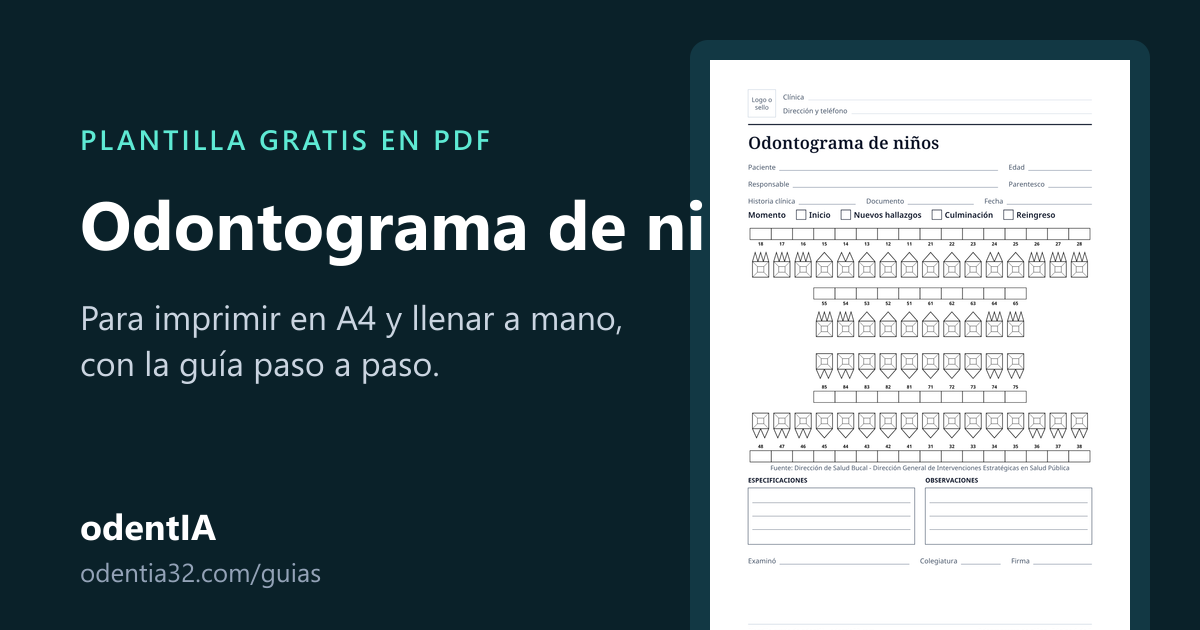
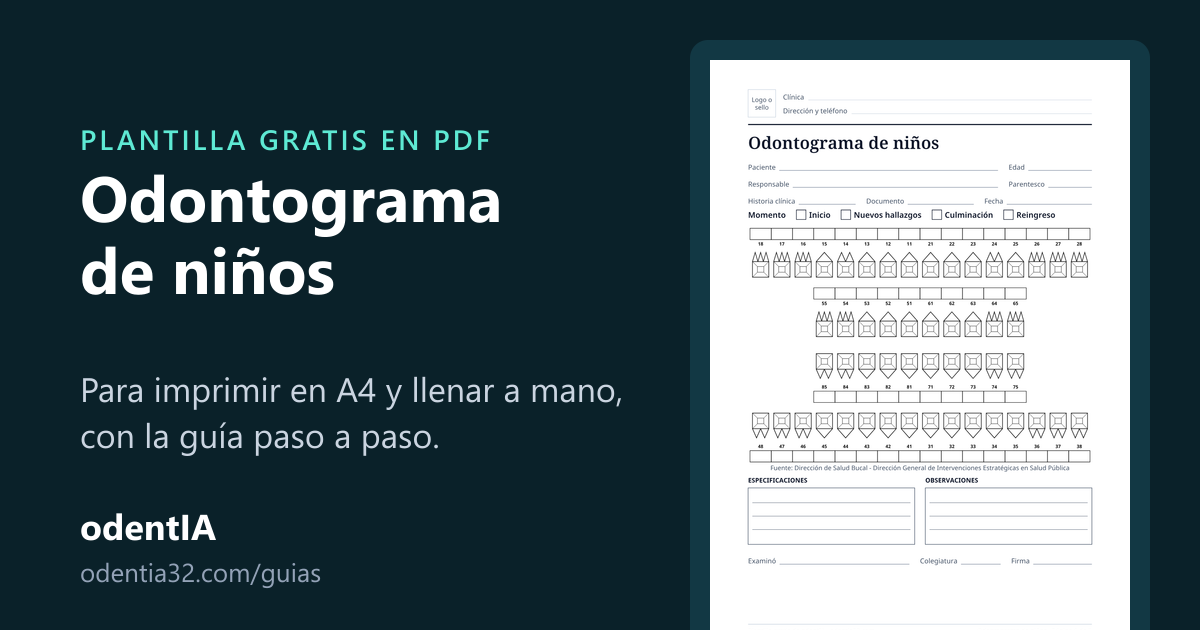
fix(guias): lo que encontró la revisión: ↑↓ y el teléfono en la vista de frente, la imagen de compartir y la fecha
- ↑ ↓ van a la pieza que está arriba o abajo en el dibujo (en la mixta, la 55 bajo la 15).
- En el teléfono, la arcada en dos filas de 8, como la app: ninguna pieza baja de 22 px.
- La imagen de compartir parte el nombre en dos renglones: «Odontograma de niños» se cortaba.
- La fecha de publicación ya no cambia al editar la guía; la miniatura no repite el nombre del enlace.
- Mateo: la 61 ya se cayó y no se marca, dicho junto a la 21.

Changed region(s): [[0.0617, 0.2714, 0.5858, 0.5429], [0.0617, 0.573, 0.5242, 0.7238]]

diff --git a/apps/web/src/components/odontogram/OdontogramFront.tsx b/apps/web/src/components/odontogram/OdontogramFront.tsx
@@ -8,6 +8,7 @@ import { archNeighbor } from "@odentia/dental/odontogram-arch"
 import {
   canalPaths,
   crownPath,
+  type FrontRow,
   type FrontTooth,
   frontRow,
   frontRowWidthMm,
@@ -16,7 +17,7 @@ import {
   rootPaths,
 } from "@odentia/dental/tooth-front"
 import { type FrontEntry, type FrontMarks, frontMarksOf, type Paint } from "@odentia/dental/tooth-front-marks"
-import { type KeyboardEvent, useId, useRef, useState } from "react"
+import { type KeyboardEvent, useId, useLayoutEffect, useRef, useState } from "react"
 import type { ExampleFinding } from "./OdontogramArch"
 
 /** Lo que es cada hallazgo de los ejemplos en la app: la condición, su cara y que está en buen estado. */
@@ -56,6 +57,9 @@ const INK: Record<Paint, string> = { red: "#dc2626", blue: "#2563eb" }
 /** Unidades del SVG por mm de dibujo, y px de pantalla por mm: el mismo tamaño que en la app. */
 const S = 5
 const PX_PER_MM = 3.5
+/** Solo con temporales va más grande, como en la app; en el teléfono, hasta 5,2. */
+const PRIMARY_PX_PER_MM = 4.4
+const PHONE_MAX_PX_PER_MM = 5.2
 /** Las de leche en su propia fila, junto a las permanentes: a este tanto de su tamaño. */
 const PRIMARY_OWN_ROW = 0.88
 const NUMBER_BAND = 24
@@ -75,17 +79,29 @@ function layoutRows(rows: readonly (readonly number[])[]) {
   const width = Math.max(...widths) + 2 * 2.6 * S + 8
   // En la mixta, cada pieza de leche va bajo la permanente que la reemplaza (la 55 bajo la 15).
   const slots = new Map<number, { x: number; w: number }>()
+  /** La fila de cada reemplazo: la de leche va bajo ella solo si todas caen en la misma. */
+  const rowOf = new Map<number, number>()
   rows.forEach((teeth, i) => {
     if (isPrimaryRow(teeth)) return
-    for (const t of frontRow(teeth, { scale: S, left: (width - widths[i]!) / 2, yOcc: 0 }).teeth)
+    for (const t of frontRow(teeth, { scale: S, left: (width - widths[i]!) / 2, yOcc: 0 }).teeth) {
       slots.set(t.tooth + 40, { x: t.x, w: t.w })
+      rowOf.set(t.tooth + 40, i)
+    }
   })
+  /** Dos filas van juntas si una es la de leche de la otra, con todas sus temporales bajo ella. */
+  const together = (a: readonly number[], b: readonly number[]) => {
+    if (isPrimaryRow(a) === isPrimaryRow(b)) return false
+    const primary = isPrimaryRow(a) ? a : b
+    const pair = rows.indexOf(isPrimaryRow(a) ? b : a)
+    return primary.every((tooth) => rowOf.get(tooth) === pair)
+  }
   let cursor = 4
-  const placed = rows.map((teeth, i) => {
+  const placed: Placed[] = rows.map((teeth, i) => {
+    // Entre una fila y la de leche que va con ella, poco; entre grupos, más (como la app).
     const prev = rows[i - 1]
-    // Entre una fila y la de leche que va con ella, poco; entre las dos de leche, más (como la app).
-    if (prev && isPrimaryRow(prev) && isPrimaryRow(teeth)) cursor += GROUP_GAP
-    const aligned = isPrimaryRow(teeth) && teeth.every((tooth) => slots.has(tooth))
+    if (prev && !together(prev, teeth) && (isPrimaryRow(prev) || isPrimaryRow(teeth))) cursor += GROUP_GAP
+    const aligned =
+      isPrimaryRow(teeth) && teeth.every((tooth) => slots.has(tooth) && rowOf.get(tooth) === rowOf.get(teeth[0]!))
     const left = (width - widths[i]!) / 2
     const opts = aligned ? { slots } : {}
     const scale = scaleOf(teeth, aligned)
@@ -103,6 +119,47 @@ function layoutRows(rows: readonly (readonly number[])[]) {
     return { row, numberY: top + NUMBER_BAND / 2 + 2, top, bottom: row.bottom }
   })
   return { width, height: cursor - ROW_GAP + 4, placed }
+}
+
+interface Placed {
+  row: FrontRow
+  /** Dónde van los números (centro de la franja). */
+  numberY: number
+  /** Lo que ocupa la fila con sus números: lo que se toca de cada pieza. */
+  top: number
+  bottom: number
+}
+
+/**
+ * ↑ ↓: la pieza de la fila de al lado que está justo arriba o abajo en el dibujo. Por posición en
+ * la fila no sirve en la mixta: la 55 va bajo la 15, no repartida a lo ancho (como la app).
+ */
+function aboveOrBelow(placed: readonly Placed[], tooth: number, step: -1 | 1): number | null {
+  const r = placed.findIndex((p) => p.row.teeth.some((t) => t.tooth === tooth))
+  const next = placed[r + step]?.row.teeth
+  if (r < 0 || !next || next.length === 0) return null
+  const from = placed[r]!.row.teeth.find((t) => t.tooth === tooth)!
+  const center = from.x + from.w / 2
+  let best = next[0]!
+  for (const t of next) if (Math.abs(t.x + t.w / 2 - center) < Math.abs(best.x + best.w / 2 - center)) best = t
+  return best.tooth
+}
+
+/**
+ * En el teléfono, como la app (`singleArchRows`): las permanentes en dos filas de 8 y las de leche
+ * enteras del lado de las coronas (solas, también en dos). Así, a 360 px, ninguna pieza baja de 24 px.
+ */
+function phoneRows(rows: readonly (readonly number[])[]): number[][] {
+  const halves = (row: readonly number[]) => [row.slice(0, row.length / 2), row.slice(row.length / 2)]
+  const upper = (row: readonly number[]) => [1, 2, 5, 6].includes(Math.trunc(row[0]! / 10))
+  const arch = (isUpper: boolean) => {
+    const permanent = rows.find((row) => row.length > 0 && upper(row) === isUpper && !isPrimaryRow(row))
+    const primary = rows.find((row) => row.length > 0 && upper(row) === isUpper && isPrimaryRow(row))
+    if (!permanent) return primary ? halves(primary) : []
+    if (!primary) return halves(permanent)
+    return isUpper ? [...halves(permanent), [...primary]] : [[...primary], ...halves(permanent)]
+  }
+  return [...arch(true), ...arch(false)]
 }
 
 /** Una cara vista de frente: el borde (oclusal o incisal), un lado o el centro. */
@@ -200,6 +257,23 @@ function ToothFront({ t, yOcc, reach, marks }: { t: FrontTooth; yOcc: number; re
   return <g transform={transform}>{body}</g>
 }
 
+/** El ancho donde va la vista: `null` hasta medirlo (en el servidor, a su tamaño). */
+function useAvailableWidth(ref: React.RefObject<HTMLDivElement | null>): number | null {
+  const [width, setWidth] = useState<number | null>(null)
+  useLayoutEffect(() => {
+    const el = ref.current
+    if (!el) return
+    const update = () => {
+      if (el.clientWidth > 100) setWidth(el.clientWidth)
+    }
+    update()
+    const observer = new ResizeObserver(update)
+    observer.observe(el)
+    return () => observer.disconnect()
+  }, [ref])
+  return width
+}
+
 /**
  * La boca de frente. Cada pieza es un botón (una sola parada de Tab y las flechas), con el mismo
  * elegido que el arco de al lado.
@@ -219,9 +293,17 @@ export default function OdontogramFront({
   labelOf: (tooth: number) => string
 }) {
   const ref = useRef<HTMLDivElement | null>(null)
+  const wrapRef = useRef<HTMLDivElement | null>(null)
   const hintId = useId()
-  const shown = rows.filter((row) => row.length > 0)
-  const { width: W, height: H, placed } = layoutRows(shown)
+  const available = useAvailableWidth(wrapRef)
+  const whole = rows.filter((row) => row.length > 0)
+  const wide = layoutRows(whole)
+  const base = whole.every(isPrimaryRow) ? PRIMARY_PX_PER_MM : PX_PER_MM
+  // Si no cabe a su tamaño, la arcada en dos filas, que llenan el ancho (como la app en el celular).
+  const phone = available !== null && (wide.width * base) / S > available
+  const shown = phone ? phoneRows(whole) : whole
+  const { width: W, height: H, placed } = phone ? layoutRows(shown) : wide
+  const px = phone ? Math.min(PHONE_MAX_PX_PER_MM, ((available ?? 0) * S) / W) : base
   const [visited, setVisited] = useState<number | null>(null)
   const visible = shown.flat()
   const tabStop =
@@ -232,7 +314,11 @@ export default function OdontogramFront({
   const onKeyDown = (event: KeyboardEvent<HTMLDivElement>) => {
     const el = (event.target as HTMLElement).closest<HTMLElement>("[data-front-tooth]")
     if (!el) return
-    const next = archNeighbor(shown, Number(el.dataset.frontTooth), event.key)
+    const tooth = Number(el.dataset.frontTooth)
+    const next =
+      event.key === "ArrowUp" || event.key === "ArrowDown"
+        ? aboveOrBelow(placed, tooth, event.key === "ArrowUp" ? -1 : 1)
+        : archNeighbor(shown, tooth, event.key)
     if (next === null) return
     event.preventDefault()
     setVisited(next)
@@ -240,10 +326,11 @@ export default function OdontogramFront({
   }
 
   return (
+    <div ref={wrapRef} className="of-wrap">
     <div
       ref={ref}
       className="of"
-      style={{ width: `${n((W * PX_PER_MM) / S)}px` }}
+      style={{ width: `${n((W * px) / S)}px` }}
       role="group"
       aria-label="De frente, cada pieza con su raíz"
       aria-describedby={hintId}
@@ -326,6 +413,7 @@ export default function OdontogramFront({
           />
         )),
       )}
+    </div>
     </div>
   )
 }

diff --git a/packages/services/src/dental/blank-sheets.cli.ts b/packages/services/src/dental/blank-sheets.cli.ts
@@ -43,16 +43,23 @@ async function shareImage(page: Buffer, title: string): Promise<Buffer> {
   const shown = await sharp(sheet)
     .extract({ left: 0, top: 0, width: 420, height: Math.min(height, 570) })
     .toBuffer()
-  const words = escape(title)
+  // El nombre en dos renglones si es de dos o más palabras («Odontograma / de niños»): en uno se
+  // metía bajo la hoja. Cada renglón mide como mucho 12 letras a 64 px, unos 560 px de ancho.
+  const [first = "", ...rest] = title.split(" ")
+  const lines = rest.length ? [first, rest.join(" ")] : [first]
+  const name = lines
+    .map((line, i) => `<text x="80" y="${lines.length > 1 ? 222 + i * 72 : 250}" font-family="Segoe UI, Arial, Helvetica, sans-serif" font-size="64" font-weight="700" fill="#ffffff">${escape(line)}</text>`)
+    .join("\n  ")
+  const below = lines.length > 1 ? 72 : 0
   const svg = `<svg xmlns="http://www.w3.org/2000/svg" width="1200" height="630">
   <rect width="1200" height="630" fill="#0a2129"/>
   <rect x="690" y="40" width="460" height="620" rx="18" fill="#123844"/>
-  <text x="80" y="150" font-family="Segoe UI, Arial, sans-serif" font-size="28" font-weight="600" fill="#5eead4" letter-spacing="3">PLANTILLA GRATIS EN PDF</text>
-  <text x="80" y="250" font-family="Segoe UI, Arial, sans-serif" font-size="68" font-weight="700" fill="#ffffff">${words}</text>
-  <text x="80" y="330" font-family="Segoe UI, Arial, sans-serif" font-size="34" fill="#cbd5e1">Para imprimir en A4 y llenar a mano,</text>
-  <text x="80" y="376" font-family="Segoe UI, Arial, sans-serif" font-size="34" fill="#cbd5e1">con la guía paso a paso.</text>
-  <text x="80" y="540" font-family="Segoe UI, Arial, sans-serif" font-size="36" font-weight="700" fill="#ffffff">odentIA</text>
-  <text x="80" y="582" font-family="Segoe UI, Arial, sans-serif" font-size="26" fill="#94a3b8">odentia32.com/guias</text>
+  <text x="80" y="150" font-family="Segoe UI, Arial, Helvetica, sans-serif" font-size="28" font-weight="600" fill="#5eead4" letter-spacing="3">PLANTILLA GRATIS EN PDF</text>
+  ${name}
+  <text x="80" y="${330 + below}" font-family="Segoe UI, Arial, Helvetica, sans-serif" font-size="34" fill="#cbd5e1">Para imprimir en A4 y llenar a mano,</text>
+  <text x="80" y="${376 + below}" font-family="Segoe UI, Arial, Helvetica, sans-serif" font-size="34" fill="#cbd5e1">con la guía paso a paso.</text>
+  <text x="80" y="540" font-family="Segoe UI, Arial, Helvetica, sans-serif" font-size="36" font-weight="700" fill="#ffffff">odentIA</text>
+  <text x="80" y="582" font-family="Segoe UI, Arial, Helvetica, sans-serif" font-size="26" fill="#94a3b8">odentia32.com/guias</text>
 </svg>`
   return sharp(Buffer.from(svg))
     .composite([{ input: shown, left: 710, top: 60 }])

diff --git a/apps/web/src/components/guides/GuideDownloads.tsx b/apps/web/src/components/guides/GuideDownloads.tsx
@@ -10,7 +10,7 @@ import { EMAIL } from "../../lib/form"
 import "./guide-downloads.css"
 
 /** `image`: la hoja vista de frente, para saber qué baja (y la que lee Google Imágenes). */
-type Sheet = { sheet: string; label: string; detail: string; href: string; image: { src: string; alt: string } }
+type Sheet = { sheet: string; label: string; detail: string; href: string; image: { src: string } }
 
 type Props = {
   sheets: Sheet[]
@@ -137,7 +137,8 @@ export default function GuideDownloads({ sheets, page, ask, cta, contactUrl }: P
       <div className="gd-cards">
         {sheets.map((item) => (
           <a key={item.sheet} className="gd-card" href={item.href} download onClick={() => setDownloaded(item)}>
-            <img className="gd-thumb" src={item.image.src} alt={item.image.alt} width={620} height={877} loading="lazy" decoding="async" />
+            {/* Sin texto: el enlace ya dice qué baja; Google la lee por el artículo. */}
+            <img className="gd-thumb" src={item.image.src} alt="" width={620} height={877} loading="lazy" decoding="async" />
             <span className="gd-what">
               <b>{item.label}</b>
               <span>{item.detail}</span>

diff --git a/apps/web/src/components/clinical/ChildChartPreview.tsx b/apps/web/src/components/clinical/ChildChartPreview.tsx
@@ -34,7 +34,7 @@ const PATIENTS: Patient[] = [
     suggested: "mixta",
     examples: {
       // Los mismos cinco de su tabla en la guía de niños.
-      21: { kind: "saliendo", finding: "Está saliendo", detail: "El incisivo central permanente: la flecha en zigzag azul, en su fila de arriba." },
+      21: { kind: "saliendo", finding: "Está saliendo", detail: "El incisivo central permanente: la flecha en zigzag azul, en su fila de arriba. La 61, la de leche que estaba ahí, ya se cayó: en la fila de leche no se marca nada." },
       36: { kind: "sigla", finding: "Fosas y fisuras profundas", detail: "Solo la sigla FFP en el recuadro, en azul: no es una caries." },
       46: { kind: "sellante", finding: "Sellante en buen estado", detail: "El sellante en la cara oclusal y la sigla S, en azul." },
       75: { kind: "caries", finding: "Caries que llega a la pulpa", detail: "En el molar de leche de abajo: la oclusal en rojo y CDP." },

diff --git a/apps/web/src/lib/guides/como-llenar-un-odontograma.ts b/apps/web/src/lib/guides/como-llenar-un-odontograma.ts
@@ -15,6 +15,7 @@ export const guide: Guide = {
     "Cómo llenar un odontograma con la notación FDI: numera cada diente, ubica la cara y marca lo que ves con colores y siglas. Odontograma en PDF gratis.",
   lead: "Con la notación FDI: cómo se numera cada diente, cómo se nombran sus caras y cómo se marca lo que encuentras. Con el odontograma en PDF para descargar.",
   updated: "2026-11-25",
+  published: "2026-11-25",
   short: [
     "Cada diente tiene dos cifras: la primera es el cuadrante y la segunda, su lugar desde el centro. El 36 se lee «tres-seis».",
     "Cada diente tiene cinco caras. Lo que está en una cara se pinta en esa cara; lo que es de todo el diente (si falta, una corona, una endodoncia) se dibuja sobre el diente, y al lado va su sigla.",

diff --git a/apps/web/src/lib/guides/presupuesto-dental.ts b/apps/web/src/lib/guides/presupuesto-dental.ts
@@ -15,7 +15,8 @@ export const guide: Guide = {
   description:
     "Cómo hacer un presupuesto dental por fases: un renglón por tratamiento, forma de pago, adelanto y vigencia. Plantilla de presupuesto dental en PDF gratis.",
   lead: "Del odontograma al presupuesto: un renglón por tratamiento, ordenado por fases y con su forma de pago. Con el presupuesto en blanco en PDF.",
-  updated: "2026-11-24",
+  updated: "2026-11-25",
+  published: "2026-11-25",
   short: [
     "Parte de lo que encontraste: un renglón por tratamiento, con su diente, sus caras y sus sesiones.",
     "Ordénalo por fases. Si hay dos caminos, van lado a lado dentro de su fase y no se suman.",

diff --git a/apps/web/src/lib/guides/odontograma-en-ninos.ts b/apps/web/src/lib/guides/odontograma-en-ninos.ts
@@ -16,6 +16,7 @@ export const guide: Guide = {
     "Cómo llenar el odontograma infantil: dientes de leche del 51 al 85, dentición mixta y el molar de los 6 años. Odontograma de niños en PDF para imprimir.",
   lead: "Los dientes de leche del 51 al 85, la dentición mixta y el molar de los 6 años, que no es de leche. Con el odontograma infantil en PDF.",
   updated: "2026-11-25",
+  published: "2026-11-25",
   short: [
     "Los dientes de leche se numeran del 51 al 85: cuadrantes 5 a 8 y dientes 1 a 5 desde el centro.",
     "A los 4 años tiene sus 20 dientes de leche. De los 6 a los 12 conviven con los permanentes, y el molar de los 6 años ya es permanente.",

diff --git a/apps/web/src/components/odontogram/odontogram.css b/apps/web/src/components/odontogram/odontogram.css
@@ -17,6 +17,7 @@ button.oa-tooth:hover { box-shadow: 0 0 0 2px var(--teal); }
 .oa-legend span { display: flex; align-items: center; gap: 6px; }
 .oa-legend i { flex: none; width: 8px; height: 8px; border-radius: 50%; }
 /* La boca de frente (OdontogramFront): de su tamaño, como en la app; más angosta, se achica. */
+.of-wrap { width: 100%; min-width: 0; }
 .of { position: relative; max-width: 100%; margin: 0 auto; }
 .of-svg { display: block; width: 100%; height: auto; user-select: none; }
 .of-tooth { position: absolute; padding: 0; border: 0; border-radius: 6px; background: transparent; cursor: pointer; }

diff --git a/apps/web/src/lib/guides/types.ts b/apps/web/src/lib/guides/types.ts
@@ -49,6 +49,8 @@ export interface Guide {
   lead: string
   /** Cuándo se revisó el texto por última vez (AAAA-MM-DD): la página, Google y el mapa del sitio. */
   updated: string
+  /** Cuándo salió por primera vez: no cambia al editarla (Google la lee como la fecha del artículo). */
+  published: string
   /** El video de YouTube, cuando esté publicado; sin él, la guía no muestra esa parte. */
   video?: { youtubeId: string; title: string }
   /** «En corto»: la respuesta en tres líneas. */

diff --git a/apps/web/src/lib/guides/index.ts b/apps/web/src/lib/guides/index.ts
@@ -103,7 +103,7 @@ export function guideArticleJsonLd(site: URL | undefined, guide: Guide, publishe
     "@type": "Article",
     headline: plainText(`${guide.title} ${guide.accent}`).replace(/[,.]\s*$/, ""),
     description: guide.description,
-    datePublished: guide.updated,
+    datePublished: guide.published,
     dateModified: guide.updated,
     inLanguage: "es",
     mainEntityOfPage: url,
